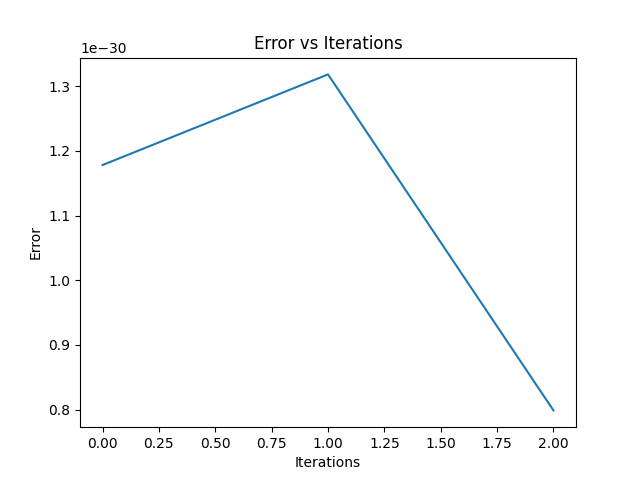
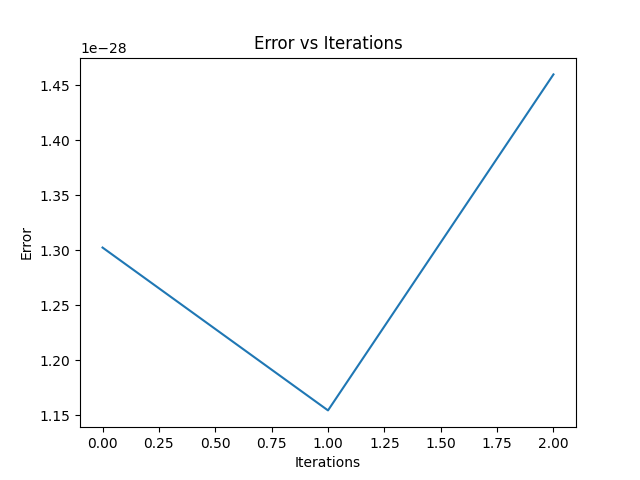
new pca error

diff --git a/shapgen/task3_optimizing_pt_ordering.py b/shapgen/task3_optimizing_pt_ordering.py
@@ -20,17 +20,18 @@ steps
 '''
 from numpy.random import default_rng
 import numpy as np
+import time
 
 from task2_pca import pca_using_svd
 
 from utils import plot_error_vs_iters, draw_point_cloud
 from configs import NUMs_SHAPE, SWAP_K, ITERS_I
-from configs import NUM_PT_FEATURES, WIDTH
+from configs import NUM_PT_FEATURES, WIDTH, BASIS_SIZE
 from configs import  SORTED_POINTCLOUD_NPY_FILEPATH, OPTIMIZED_SORTED_m_3NxS_NPY_FILEPATH
 rng = default_rng()
 
 
-def pca_reconstruction_error(U,m_3NxS):
+def pca_reconstruction_error(U,S,Vt, m_3NxS):
     print('calculating_pca_error')
     '''
     avg across all shapes ?
@@ -62,27 +63,34 @@ def pca_reconstruction_error(U,m_3NxS):
     #  # 0 4 1   1 0.25 = 6.25
     #
     # val = newproduct - 
+    print('m_3NxS.shape', m_3NxS.shape)
     mu = np.mean(m_3NxS, axis=1) #calculating at every swap as the order of points is changing or instead i can swap mu as well 
     print('mu.shape', mu.shape)
-    print('m_3NxS.shape', m_3NxS.shape)
     mu = np.expand_dims(mu, axis=1)
-    # diff1 = Ps - mu 
-    #error here need to fix
     sum_error = 0
 
     
     # where h is an n x I column vector of all Is:
 # for i = I
     # B = X - huT
-
-
+    
+    
     for s in range(NUMs_SHAPE):
-        print(s,m_3NxS.shape)
+    #no need to avg over shapes?
+
+        print(m_3NxS.shape) #s
         Ps = m_3NxS[:,s]  # 3Nx1
         Ps = np.expand_dims(Ps, axis=1)
         print('Ps.shape', Ps.shape)
         diff1 = Ps - mu # 3Nx1
-        val = np.dot(U,U.T)@(diff1) - diff1
+        # val = np.dot(U,U.T)@(diff1) - diff1
+        recon = U@S@Vt
+        print('recon', recon.shape)
+
+        #----------------------
+        val = recon +mu  - Ps  #followed the recon mentioned in toronto notes
+        #----------------------
+        
         print(val)
         # if val.any() >= 0e+00 :  #this should be zero , check
         #     print('val not zero')
@@ -93,8 +101,8 @@ def pca_reconstruction_error(U,m_3NxS):
 
 
     # 1xS                         
-    avg_error = sum_error/NUMs_SHAPE
-    print('avg_error : ', avg_error.shape)
+    avg_error = sum_error #/NUMs_SHAPE
+    print('sum_error : ', avg_error.shape)
     # print('error_mag_for_each_shape:', error_mag_for_each_shape.shape)
     return avg_error[0,0] # 1x1
 
@@ -149,9 +157,18 @@ def optimizing_pt_ordering(m_3NxS,swaps_K, iters_I):
             #m_3NxS has now swapped points i and j
 
             U,S,Vt = pca_using_svd(m_3NxS)
+            # print('U.Ut',np.dot(U,U.T).shape, np.dot(U,U.T ))
+            # print('\n-----------------------------------------\n')
+
+            U = U[:,0:BASIS_SIZE] #U is 3Nx3N, U[:,0:BASIS_SIZE] is 3Nx100
+            S = np.diag(S)
+            S = S[0:BASIS_SIZE, 0:BASIS_SIZE] #S is 100, S[0:BASIS_SIZE] is 100
+            Vt = Vt[0:BASIS_SIZE, 0:NUMs_SHAPE] #Vt is 3NxS, Vt[0:BASIS_SIZE] is 100xS
+            print('U:', U.shape, 'S:', S.shape, 'Vt:', Vt.shape)  #U: (m, 100) S: (100,) Vt: (100, 80)
             print('U.Ut',np.dot(U,U.T).shape, np.dot(U,U.T ))
             
-            avg_pca_error_across_shapes = pca_reconstruction_error(U,m_3NxS)
+            # break
+            avg_pca_error_across_shapes = pca_reconstruction_error(U,S,Vt, m_3NxS)
             print('pca_error:',  avg_pca_error_across_shapes.shape, avg_pca_error_across_shapes)
 
             k_pca_errors += avg_pca_error_across_shapes
@@ -184,7 +201,7 @@ def get_optimized_pt_orderingNdraw(m_3NxS,swaps_K, iters_I):
     print('Post Optimization point cloud matrix shape: ', m_3NxS.shape)
     print('len of error list: ', len(pca_error_periters_list))
     plot_error_vs_iters(pca_error_periters_list)
-    draw_point_cloud(m_3NxS)
+    draw_point_cloud(m_3NxS[:,0])
 
     return m_3NxS
 
@@ -201,14 +218,20 @@ if __name__ == '__main__':
         print('m_3NxS_sorted',m_3NxS_sorted.shape)#, m_3NxS_sorted, '\n-------------------')
         print(type(m_3NxS_sorted))
 
-        #viz some pt clouds and color the pts according to the order
-        #TODO
+        #viz some pt clouds and color the pts, to confirm the pts loaded correctly
+        # draw_point_cloud(m_3NxS_sorted[:,0]) #works
+
+
+        
 
         m_3NxS_sorted = m_3NxS_sorted[:3*WIDTH, 0:NUMs_SHAPE] #for testing
         print('m_3NxS_sorted',m_3NxS_sorted.shape)
-        optimized_sorted_m_3NxS = get_optimized_pt_orderingNdraw(m_3NxS_sorted,SWAP_K, ITERS_I)
 
-        #save the optimized matrix
+        start = time.time()
+        optimized_sorted_m_3NxS = get_optimized_pt_orderingNdraw(m_3NxS_sorted,SWAP_K, ITERS_I) #around > 2mins expected
+        end = time.time()
+        print(f'time taken for sorting ptclds using kdtree: a {3*WIDTH} x {NUMs_SHAPE} matrix: {end-start}')
+
 
     print('Optimized sorted point cloud matrix shape: ', optimized_sorted_m_3NxS.shape)
     with open(OPTIMIZED_SORTED_m_3NxS_NPY_FILEPATH, 'wb') as f:

diff --git a/shapgen/utils.py b/shapgen/utils.py
@@ -6,7 +6,21 @@ Plotting and drawing functions
 import matplotlib.pyplot as plt
 import open3d as o3d
 
-def draw_point_cloud(pcd):
+def draw_point_cloud(ptcloud_matrix_3Nx1_old):
+    print('point cloud old matrix shape:', ptcloud_matrix_3Nx1_old.shape)
+    ptcloud_matrix_3Nx1 = ptcloud_matrix_3Nx1_old.reshape(-1,3) # check if it keeps xyz adjacent
+    print('point cloud matrix shape:', ptcloud_matrix_3Nx1.shape)
+
+    assert ptcloud_matrix_3Nx1_old[0] == ptcloud_matrix_3Nx1[0,0] , print(ptcloud_matrix_3Nx1[0,0] , ptcloud_matrix_3Nx1[0,0])
+    assert ptcloud_matrix_3Nx1_old[1] == ptcloud_matrix_3Nx1[0,1]
+    assert ptcloud_matrix_3Nx1_old[2] == ptcloud_matrix_3Nx1[0,2]
+    assert ptcloud_matrix_3Nx1_old[3] == ptcloud_matrix_3Nx1[1,0]
+    assert ptcloud_matrix_3Nx1_old[4] == ptcloud_matrix_3Nx1[1,1]
+    
+
+
+    pcd = o3d.geometry.PointCloud()
+    pcd.points = o3d.utility.Vector3dVector(ptcloud_matrix_3Nx1[:]) #reshape(-1,3) col matrix
     o3d.visualization.draw_geometries([pcd])
     #draw the point cloud
     return 
@@ -19,7 +33,8 @@ def plot_error_vs_iters(pca_error_periters_list):
     plt.ylabel('Error')
     plt.title('Error vs Iterations')
     
-    plt.savefig('plots/error_vs_iters.png')
+    savepath = f'plots/pca_error_vs_iters_{BASIS_SIZE}_{WIDTH}_{NUMs_SHAPE}.png'
+    plt.savefig(savepath)
     plt.show()
 
     return 
@@ -38,6 +53,7 @@ def plot_losses(Gene_losses, Disc_losses):
     plt.show()
 
     return
+
 def save_column_matrix_as_pcd(save_path, column_matrix, idx):
     #save the column matrix as a point cloud data file
     column_matrix = column_matrix.reshape(3,-1) # check if it keeps xyz adjacent

diff --git a/shapgen/configs.py b/shapgen/configs.py
@@ -1,19 +1,19 @@
 
-BASIS_SIZE = 60 #100
+BASIS_SIZE = 100 #100
 NUM_PT_FEATURES = 3
 
 SWAP_K = 4 #10000
-ITERS_I = 3 #1000
+ITERS_I = 10 #1000
 
-WIDTH =   20 #20 #1000  #N in paper
-NUMs_SHAPE = 80 #200  # 5000  #S in paper
+WIDTH = 500 #20 #1000  #N in paper
+NUMs_SHAPE = 120 #200  # 5000  #S in paper
 
 #for width = 20 (60)  < numsshape 200 - (horizontal matrix)    U: (60, 60) S: (60,) Vt: (60, 200) #why is u 60x60 and not 60x200
 #for width = 100(300) > numsshape 20 - (vertical matrix)       U: (300, 20) S: (20,) Vt: (20, 20)
 
 POINT_CLOUD_DATA = 'C:/Users/Sairaj Loke/Desktop/Preimage/shapenet-chairs-pcd/'
 SORTED_POINTCLOUD_NPY_FILEPATH = 'C:/Users/Sairaj Loke/Desktop/Preimage/Preimage_Intern_Task/shapgen/point_cloud_matrices/sorted_ptcloud_3NxS.npy'
-OPTIMIZED_SORTED_m_3NxS_NPY_FILEPATH = 'C:/Users/Sairaj Loke/Desktop/Preimage/Preimage_Intern_Task/shapgen/point_cloud_matrices/optimized_sorted_ptcloud_3NxS.npy'
+OPTIMIZED_SORTED_m_3NxS_NPY_FILEPATH = f'C:/Users/Sairaj Loke/Desktop/Preimage/Preimage_Intern_Task/shapgen/point_cloud_matrices/optimized_sorted_ptcloud_3NxS_{BASIS_SIZE}_{NUMs_SHAPE}.npy'
 
 
 TRAINING_DATA_PATH = 'C:/Users/Sairaj Loke/Desktop/Preimage/Preimage_Intern_Task/shapgen/point_cloud_matrices/optimized_sorted_ptcloud_3NxS.npy'

diff --git a/shapgen/tests.py b/shapgen/tests.py
@@ -133,6 +133,14 @@ def norms():
     c = torch.norm(a-b, p=2)
     print(c)
 
+def pca_recon():
+
+    a = np.array([[1,2,3,4,5], [0,0,0,0,0]], dtype=np.float32).T
+    print(a.shape)
+    print(np.mean(a, axis=1))
+    b = torch.tensor([[0,0,0,0,0], [1,1,1,1,1]] , dtype=np.float32)
+
+
 if __name__ == '__main__':
     # normtests()
     # mean_test()
@@ -141,4 +149,5 @@ if __name__ == '__main__':
     # cov_test()
     # cat()
     # batched_cov_test()
-    norms()
+    # norms()
+    pca_recon()
